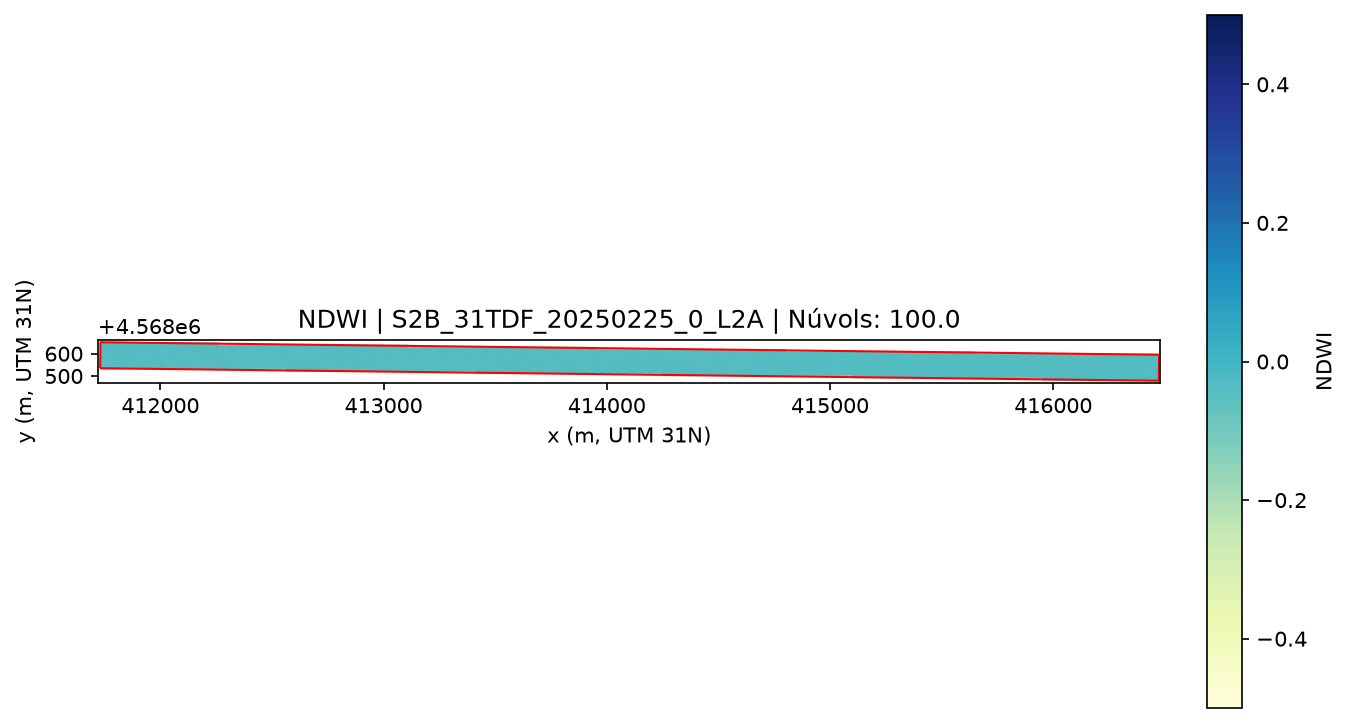
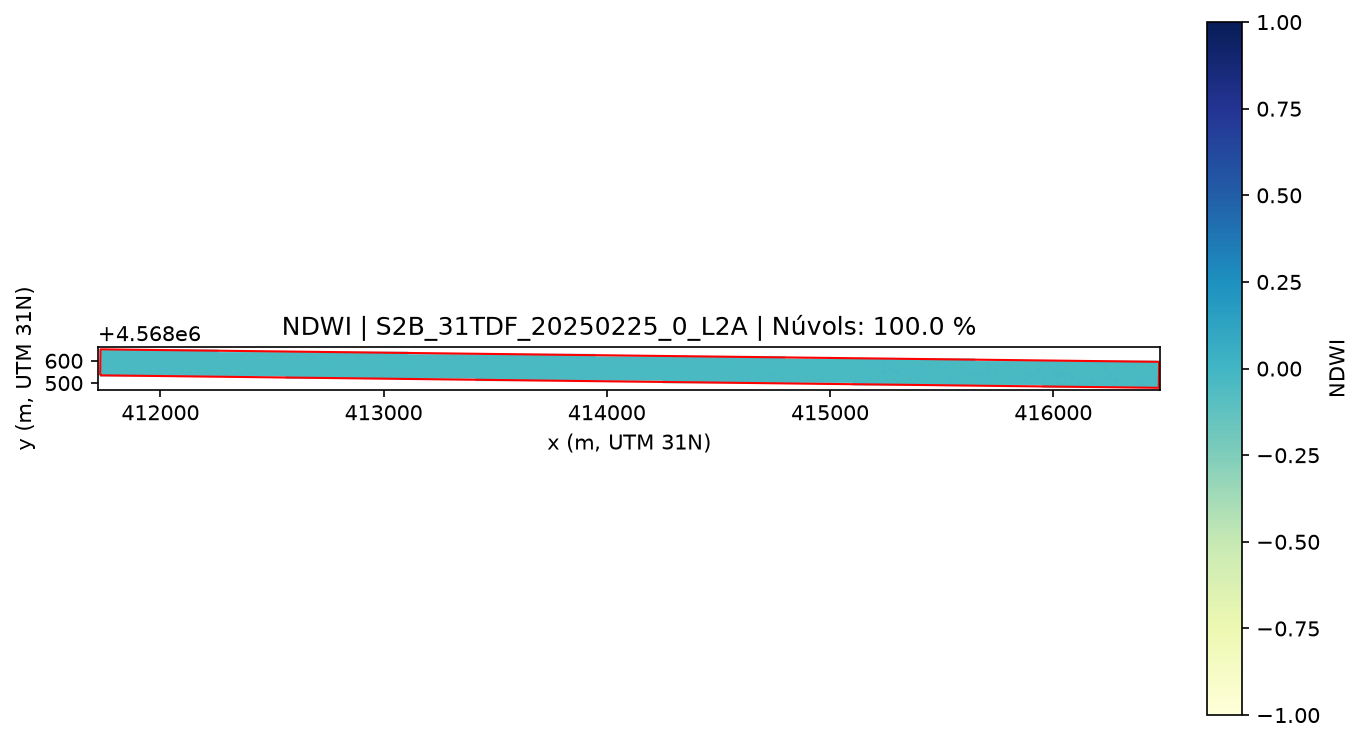
Petites correcions a la visualització NDWI (cal revisar)

Changed region(s): [[0.0, 0.0, 0.9948, 1.0]]

diff --git a/Tasca2/tasca2.py b/Tasca2/tasca2.py
@@ -184,13 +184,13 @@ def save_ndwi(item):
     extent = (bounds.left, bounds.right, bounds.bottom, bounds.top)
 
     fig, ax = plt.subplots(figsize = (10, 6))
-    im = ax.imshow(ndwi, cmap="YlGnBu", vmin = -0.5, vmax = 0.5, extent = extent)
+    im = ax.imshow(ndwi, cmap="YlGnBu", vmin = -1, vmax = 1, extent = extent)
     aoi.boundary.plot(ax = ax, color ="red", linewidth = 1)
 
     cbar = fig.colorbar(im, ax = ax, fraction = 0.046, pad = 0.04)
     cbar.set_label("NDWI")
 
-    ax.set_title(f"NDWI | {item.id} | Núvols: {item.properties['eo:cloud_cover']:.1f}")
+    ax.set_title(f"NDWI | {item.id} | Núvols: {item.properties['eo:cloud_cover']:.1f} %")
     ax.set_xlabel("x (m, UTM 31N)")
     ax.set_ylabel("y (m, UTM 31N)")
 
